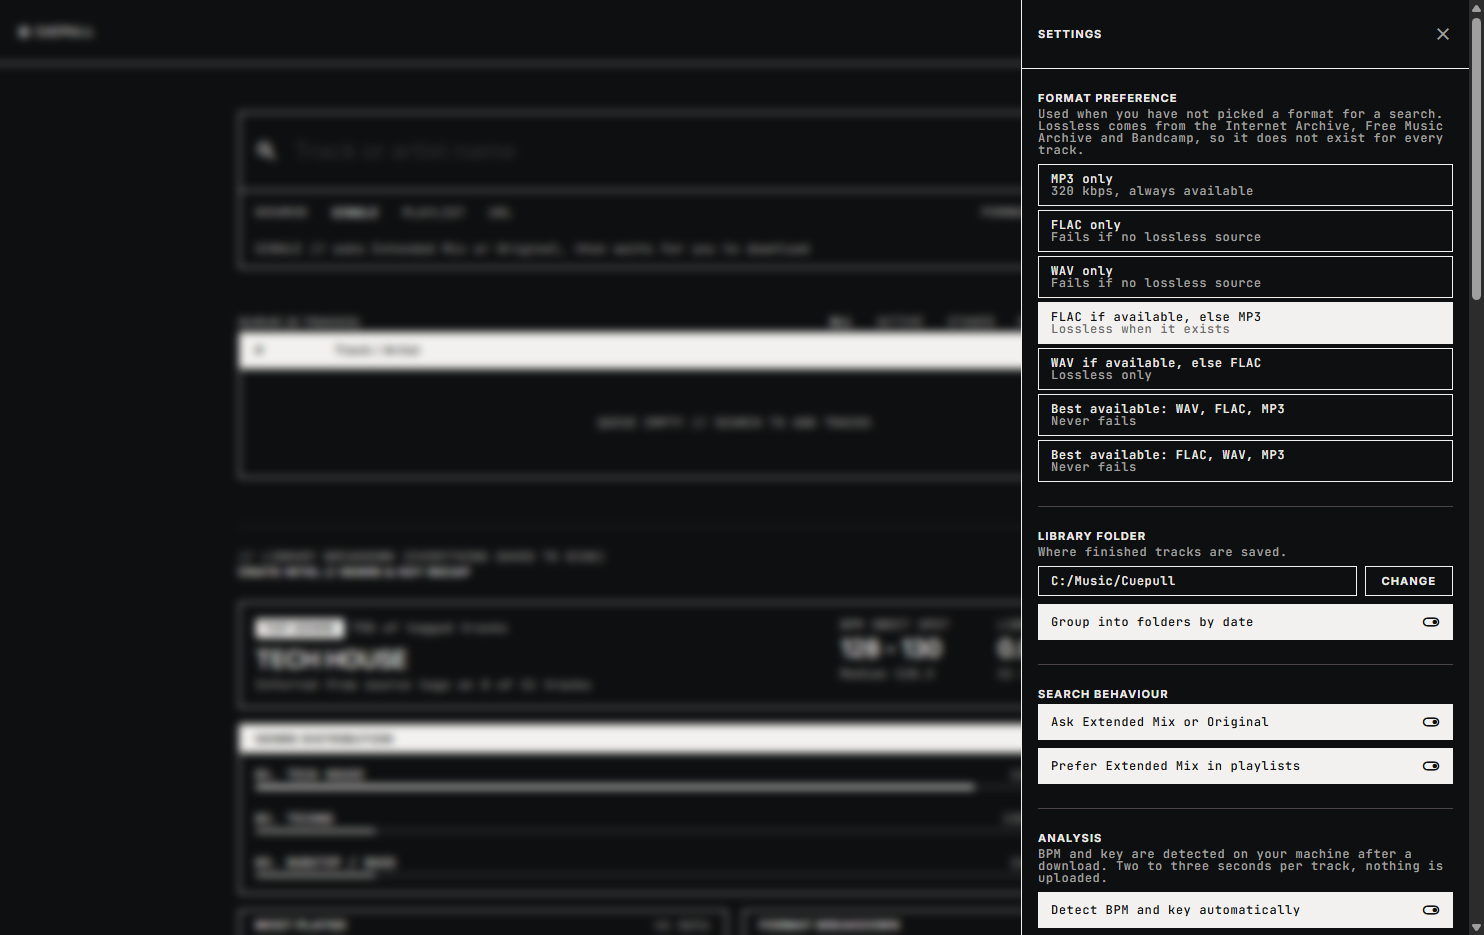
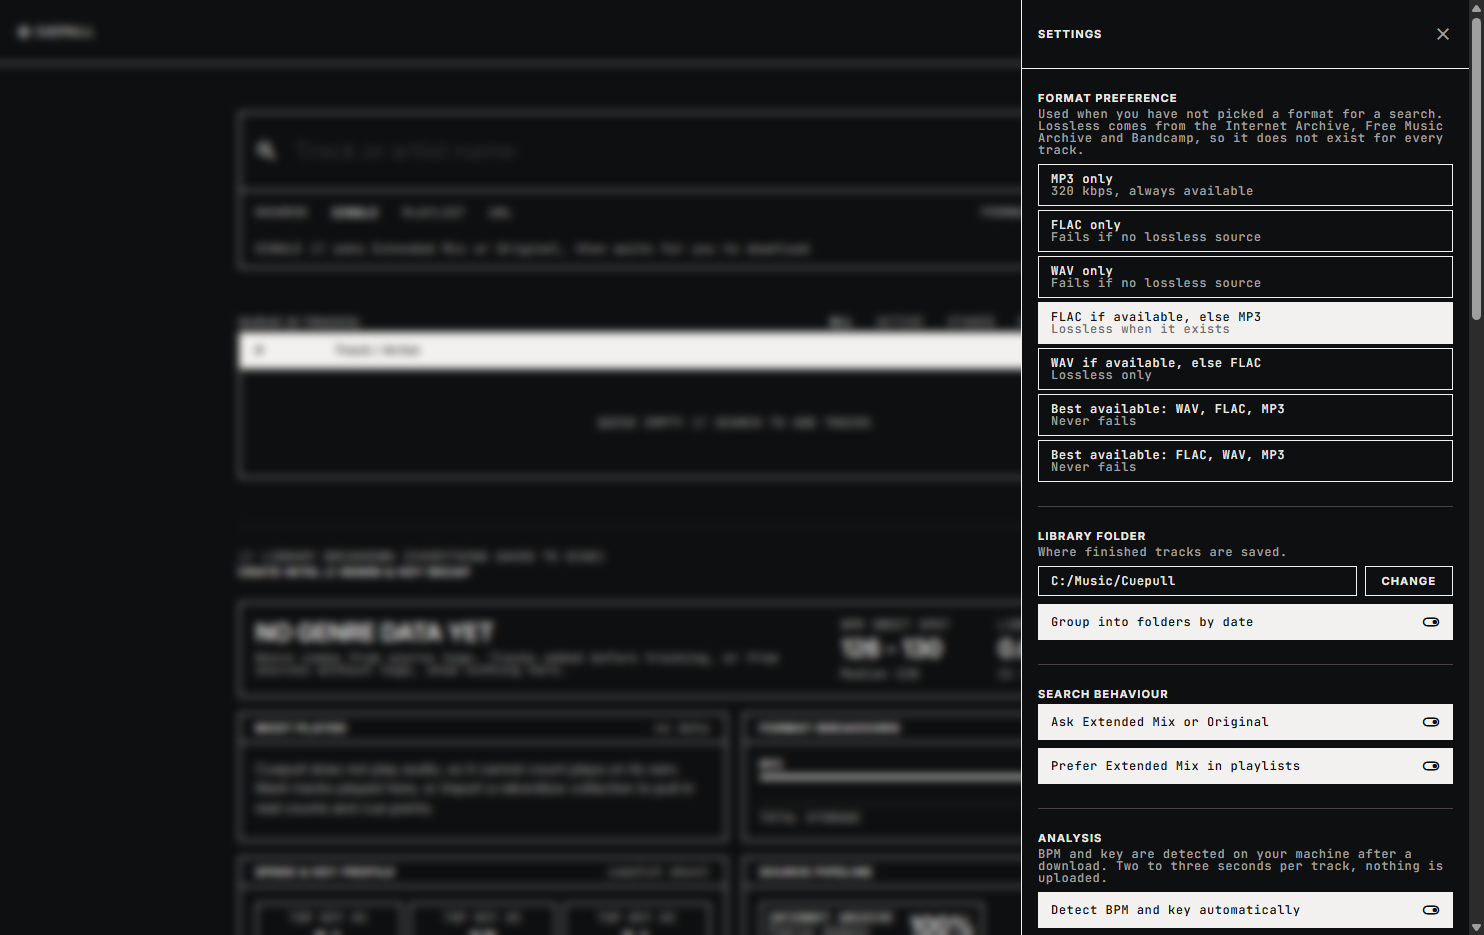
Use a generated library for the screenshots
The screenshots showed eleven commercial releases by name, with their labels
legible: Toolroom, Helix, Experts Only and others. That is the mistake that
made the 2020 youtube-dl takedown stick. The notice did not lead with the
code, it quoted the project's own README, where copyrighted tracks were used
as examples. A picture of this app holding a shelf of chart records makes that
argument on someone else's behalf.

scripts/demo-library.js now generates the crate the screenshots use. The audio
is synthesised with ffmpeg, a kick on each beat plus a held tone, and the names
are invented. Tempos and keys are picked so the ordering has something real to
solve, which makes for a better demonstration than the real crate did: the
walk is 7A 8A 8B 9B 9A 10A 11A 11B 10B 12B 12A with no rough joins, and the
beat grid reads more clearly against a clean tone.

The capture script now refuses to run without that generated library rather
than falling back to whatever is on the machine.

Checked: no artist, label or user name appears in the bytes of any image.

diff --git a/scripts/demo-library.js b/scripts/demo-library.js
@@ -1,0 +1,118 @@
+// Builds a demo library for the README screenshots.
+//
+// The screenshots must not show a real crate. Naming commercial releases, and
+// their labels, is what turned the 2020 youtube-dl takedown from a dispute
+// about code into a dispute about evidence: the RIAA quoted the project's own
+// README back at it. A picture of this app holding a shelf of chart tracks
+// makes exactly that argument for someone else.
+//
+// So the screenshots use tones generated here. The audio is synthesised with
+// ffmpeg, the names are invented, and every track is at a tempo and key that
+// makes the setlist ordering legible. Nothing is copied from anywhere.
+
+const fs = require("fs");
+const path = require("path");
+const { execFileSync } = require("child_process");
+const { getBinaries } = require("../server/binaries");
+
+const OUT = process.argv[2] || "C:/Music/Cuepull";
+const FOLDER = "12-06-2026";
+
+// Invented titles and artists. Tempos and keys are chosen to give the setlist
+// something real to solve: a tight cluster with a few clean harmonic runs.
+const TRACKS = [
+  { artist: "Test Signal", title: "Calibration Tone", bpm: 126, key: "A minor", camelot: "8A", root: 220.0 },
+  { artist: "Test Signal", title: "Reference Level", bpm: 126, key: "C major", camelot: "8B", root: 261.6 },
+  { artist: "Placeholder", title: "Sine Study One", bpm: 128, key: "E minor", camelot: "9A", root: 329.6 },
+  { artist: "Placeholder", title: "Sine Study Two", bpm: 128, key: "G major", camelot: "9B", root: 392.0 },
+  { artist: "Grey Noise", title: "Low Pass", bpm: 128, key: "B minor", camelot: "10A", root: 246.9 },
+  { artist: "Grey Noise", title: "High Pass", bpm: 130, key: "D major", camelot: "10B", root: 293.7 },
+  { artist: "Null Input", title: "Silent Partner", bpm: 130, key: "F# minor", camelot: "11A", root: 370.0 },
+  { artist: "Null Input", title: "Open Channel", bpm: 130, key: "A major", camelot: "11B", root: 440.0 },
+  { artist: "Dry Run", title: "First Pass", bpm: 132, key: "Db minor", camelot: "12A", root: 277.2 },
+  { artist: "Dry Run", title: "Second Pass", bpm: 132, key: "E major", camelot: "12B", root: 659.3 },
+  { artist: "Loopback", title: "Return Path", bpm: 124, key: "D minor", camelot: "7A", root: 293.7 },
+];
+
+// A four to the floor kick plus a held tone, so the waveform has visible
+// transients for the beat grid to sit against.
+function render(track, file) {
+  const { ffmpeg } = getBinaries();
+  if (!ffmpeg) throw new Error("ffmpeg not found");
+
+  const seconds = 200;
+  const beat = 60 / track.bpm;
+
+  // A short percussive click every beat, plus a quiet sustained tone.
+  const kick = `sine=frequency=55:duration=${seconds}`;
+  const tone = `sine=frequency=${track.root}:duration=${seconds}`;
+
+  execFileSync(
+    ffmpeg,
+    [
+      "-y", "-hide_banner", "-loglevel", "error",
+      "-f", "lavfi", "-i", kick,
+      "-f", "lavfi", "-i", tone,
+      "-filter_complex",
+      // Gate the kick into beats, keep the tone low, mix them.
+      `[0:a]atrim=0:${seconds},asetpts=N/SR/TB,` +
+        `volume='if(lt(mod(t,${beat}),0.06),1,0)':eval=frame[k];` +
+        `[1:a]volume=0.10[t];` +
+        `[k][t]amix=inputs=2:duration=shortest[a]`,
+      "-map", "[a]",
+      "-ac", "2", "-ar", "44100", "-b:a", "320k",
+      "-metadata", `title=${track.title}`,
+      "-metadata", `artist=${track.artist}`,
+      file,
+    ],
+    { stdio: "inherit", timeout: 120000 }
+  );
+}
+
+function main() {
+  const dir = path.join(OUT, FOLDER);
+  fs.mkdirSync(dir, { recursive: true });
+
+  const library = { tracks: {} };
+
+  for (const t of TRACKS) {
+    const name = `${t.artist} - ${t.title}.mp3`;
+    const rel = `${FOLDER}/${name}`;
+    const file = path.join(dir, name);
+
+    if (!fs.existsSync(file)) {
+      process.stdout.write(`  ${t.artist} - ${t.title}  `);
+      render(t, file);
+      console.log(`${(fs.statSync(file).size / 1048576).toFixed(1)} MB`);
+    }
+
+    library.tracks[rel] = {
+      fileName: rel,
+      title: t.title,
+      artist: t.artist,
+      format: "mp3",
+      source: "archive",
+      durationSec: 200,
+      bytes: fs.statSync(file).size,
+      tags: ["Demo"],
+      bpm: t.bpm,
+      musicalKey: t.key,
+      camelot: t.camelot,
+      keyConfidence: 0.9,
+      firstSeen: "2026-06-12T10:00:00.000Z",
+      downloads: 1,
+      played: 0,
+      analysedAt: "2026-06-12T10:00:30.000Z",
+      cuePoints: 0,
+    };
+  }
+
+  fs.writeFileSync(
+    path.join(OUT, "demo-library.json"),
+    JSON.stringify(library, null, 2)
+  );
+  console.log(`\n${TRACKS.length} tracks in ${dir}`);
+  console.log(`library written to ${path.join(OUT, "demo-library.json")}`);
+}
+
+main();

diff --git a/scripts/screenshots.js b/scripts/screenshots.js
@@ -30,10 +30,6 @@ const PROFILE = fs.mkdtempSync(path.join(os.tmpdir(), "cuepull-shots-"));
 const LIBRARY = process.env.SHOTS_LIBRARY || "C:/Music/Cuepull";
 
 function seedProfile() {
-  const realData = process.env.APPDATA
-    ? path.join(process.env.APPDATA, "Cuepull")
-    : null;
-
   fs.writeFileSync(
     path.join(PROFILE, "settings.json"),
     JSON.stringify(
@@ -53,24 +49,23 @@ function seedProfile() {
     )
   );
 
-  // Take the analysed library but keep only the tracks that actually exist
-  // under LIBRARY, so the setlist and decks have real audio to work with.
-  if (realData) {
-    const src = path.join(realData, "library.json");
-    if (fs.existsSync(src)) {
-      const db = JSON.parse(fs.readFileSync(src, "utf8"));
-      const kept = {};
-      for (const [name, t] of Object.entries(db.tracks || {})) {
-        const full = path.join(LIBRARY, ...name.split("/"));
-        if (fs.existsSync(full)) kept[name] = t;
-      }
-      fs.writeFileSync(
-        path.join(PROFILE, "library.json"),
-        JSON.stringify({ ...db, tracks: kept }, null, 2)
-      );
-      console.log(`  library: ${Object.keys(kept).length} tracks present`);
-    }
+  // Use the generated demo library, never the real crate.
+  //
+  // Naming commercial releases in a README is what turned the 2020 youtube-dl
+  // takedown from an argument about code into an argument about evidence: the
+  // notice quoted the project's own examples. A screenshot of this app holding
+  // a shelf of chart tracks, with the labels legible, makes that argument for
+  // someone else. Run scripts/demo-library.js first.
+  const demo = path.join(LIBRARY, "demo-library.json");
+  if (!fs.existsSync(demo)) {
+    throw new Error(
+      `No demo library at ${demo}.\n` +
+      `Run:  node scripts/demo-library.js "${LIBRARY}"`
+    );
   }
+  fs.copyFileSync(demo, path.join(PROFILE, "library.json"));
+  const n = Object.keys(JSON.parse(fs.readFileSync(demo, "utf8")).tracks || {}).length;
+  console.log(`  demo library: ${n} tracks`);
 }
 
 const wait = (ms) => new Promise((r) => setTimeout(r, ms));
